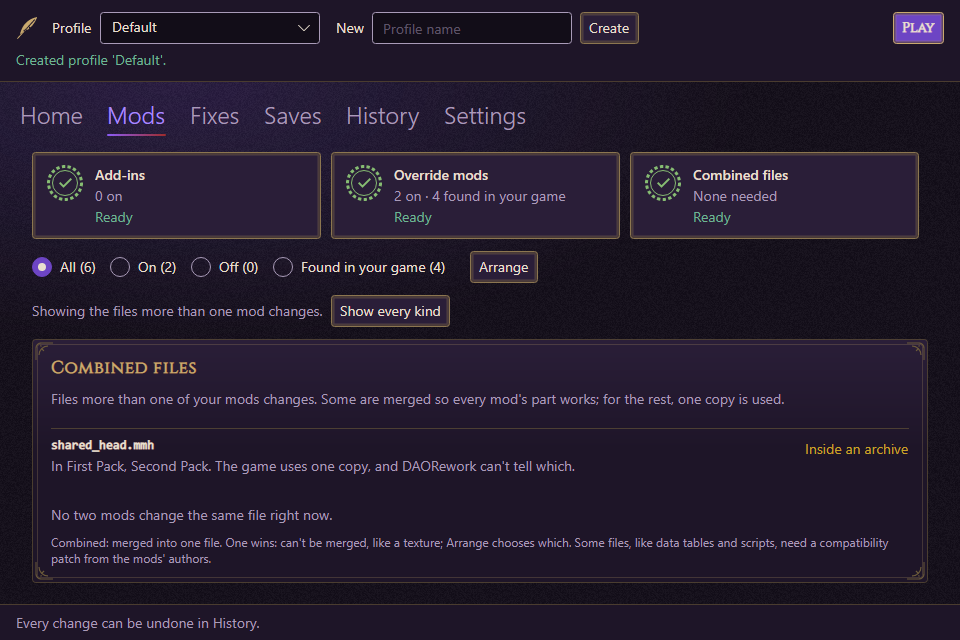
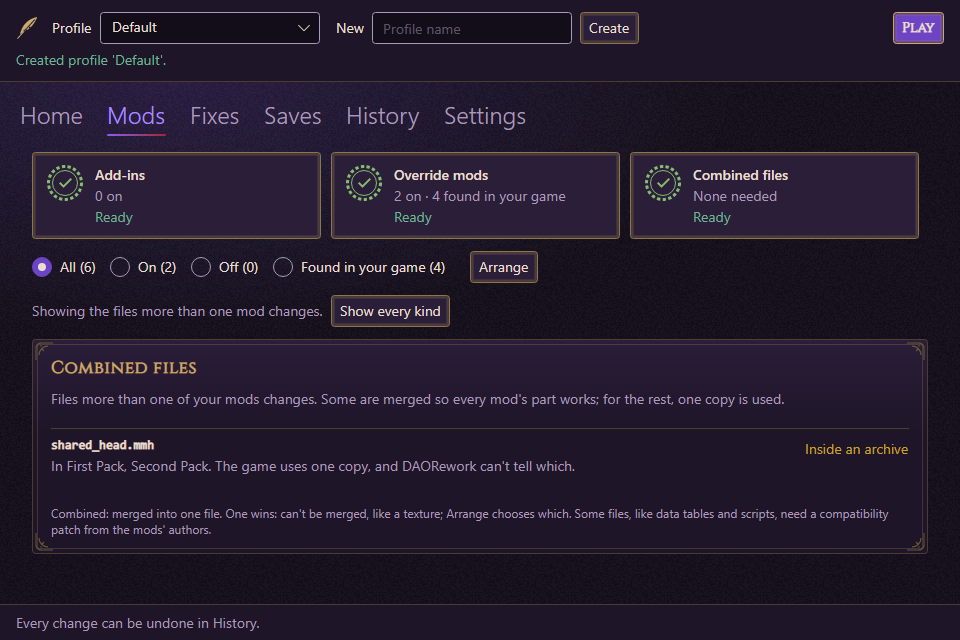
fix(mods): don't say nothing is shared when an archive shares something (P3-07)

Changed region(s): [[0.0312, 0.7812, 0.9688, 0.9062]]

diff --git a/tests/DAORework.App.Tests/PackedConflictsScreenTests.cs b/tests/DAORework.App.Tests/PackedConflictsScreenTests.cs
@@ -1,7 +1,9 @@
 using System.IO.Abstractions.TestingHelpers;
 using System.IO.Compression;
 using System.Text;
+using Avalonia.Controls;
 using Avalonia.Headless.XUnit;
+using Avalonia.VisualTree;
 using DAORework.App.ViewModels;
 using DAORework.App.Views;
 using Xunit;
@@ -36,6 +38,7 @@ public sealed class PackedConflictsScreenTests : IDisposable
         Assert.Contains("First Pack, Second Pack", row.Detail, StringComparison.Ordinal);
         Assert.Contains("can't tell which", row.Detail, StringComparison.Ordinal);
         ModsTabScenario.Show<CombinedFilesPanel>(window);
+        Assert.False(window.GetVisualDescendants().OfType<TextBlock>().Single(t => t.Name == "NoSharedFiles").IsVisible);
         Screenshots.Save(window, "40-packed-conflicts");
     }
 
